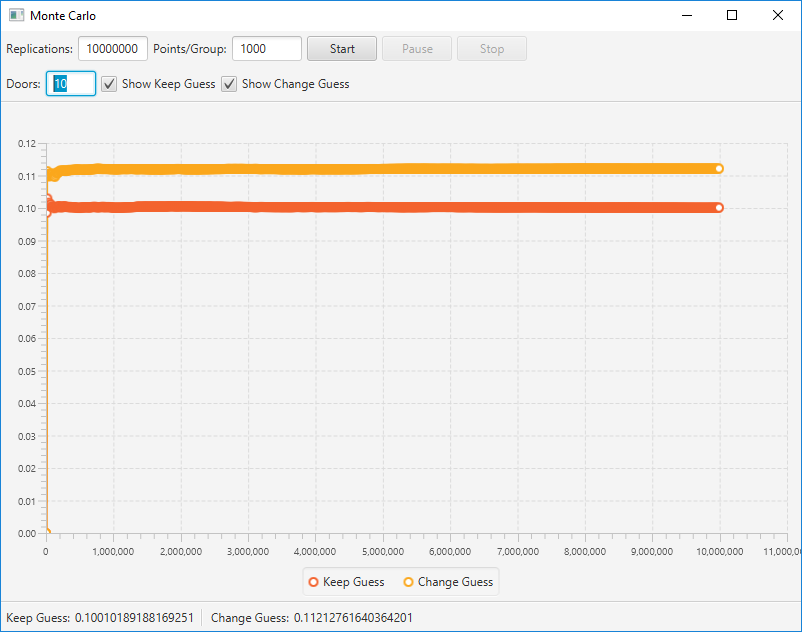
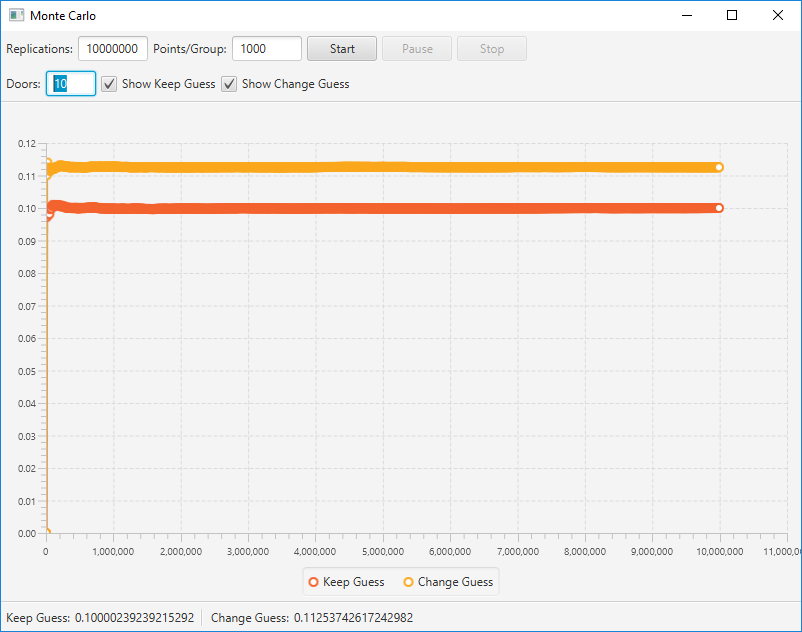
fix guess change

diff --git a/src/main/kotlin/sk/ikim23/montecarlo/problem/ChangeGuessTask.kt b/src/main/kotlin/sk/ikim23/montecarlo/problem/ChangeGuessTask.kt
@@ -27,8 +27,8 @@ class ChangeGuessTask(val maxReps: Int, val doors: Int) : IServiceTask<XYData> {
     override fun tick(): XYData {
         val car = randCar.nextInt(doors)
         val guess1 = randGuess1.nextInt(doors)
-        var openDoors = skipIfContains(randDoors.nextInt(doors), guess1, car)
-        val guess2 = skipIfContains(randGuess2.nextInt(doors), guess1, openDoors)
+        var openDoors = randWithout(randDoors, guess1, car)
+        val guess2 = randWithout(randGuess2, guess1, openDoors)
         if (car == guess2) {
             wins++
         }
@@ -36,12 +36,9 @@ class ChangeGuessTask(val maxReps: Int, val doors: Int) : IServiceTask<XYData> {
         return XYData(reps, wins / reps)
     }
 
-    fun skipIfContains(value: Int, vararg blackList: Int): Int {
-        var result = value
-        while (blackList.contains(result)) {
-            result++
-            if (result >= doors) result = 0
-        }
-        return result
+    fun randWithout(rand: Random, v1: Int, v2: Int): Int {
+        val values = (0..(doors - 1)).filter { it != v1 && it != v2 }
+        val idx = rand.nextInt(values.size)
+        return values[idx]
     }
 }
